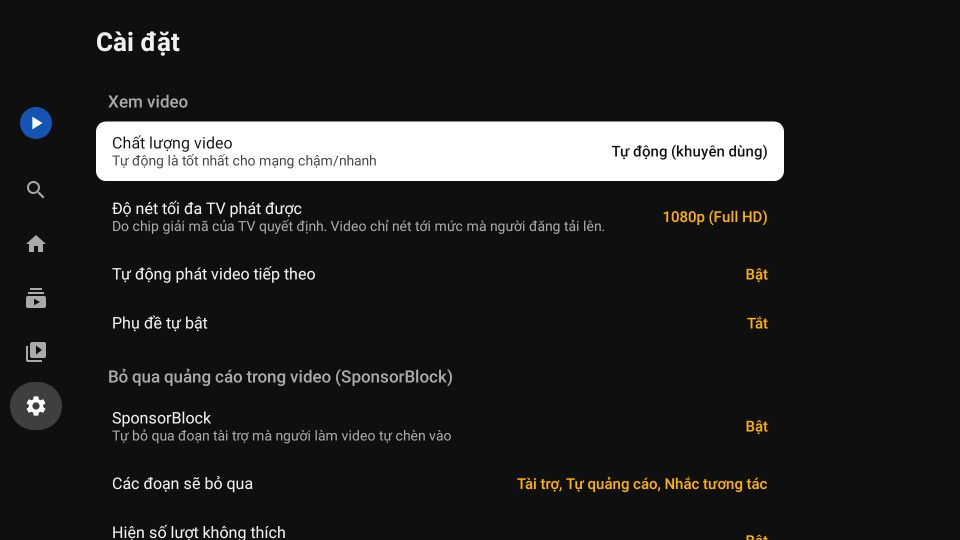
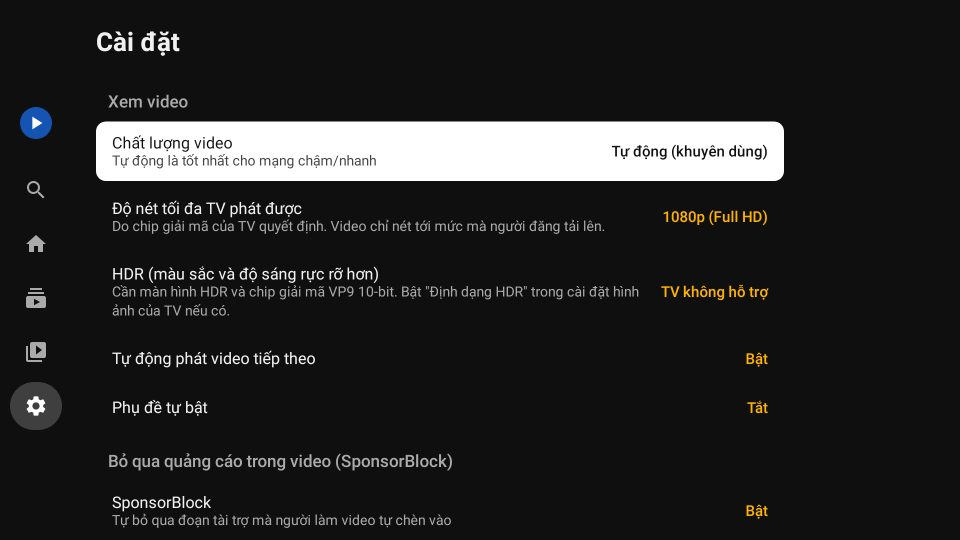
App TV: HDR hoàn tất – test đạt, cập nhật hướng dẫn
Toàn bộ 88 test đạt, gồm test online ExoPlayer đọc luồng VP9.2 HDR10
2160p thật của YouTube.

Claude-Session: https://claude.ai/code/session_01Hny7qgizzj2UgncCQWRFMY

diff --git a/README.md b/README.md
@@ -36,7 +36,7 @@ Bản dành riêng cho **Google TV / Android TV**, ví dụ TV Coocaa 55Y73. Đi
 - **SponsorBlock** (tự bỏ qua đoạn tài trợ, có tô màu trên thanh tua) và **Return YouTube Dislike**: dùng chung phần lõi với bản điện thoại.
 - **Giữ OK** trên một video để mở menu: *Xem sau*, *Đi đến kênh*, *Phát từ đầu*, *Không quan tâm*.
 - Thoát video là ô sáng quay lại đúng video vừa xem. Nút Quay lại hoạt động như YouTube trên TV. Rời app (nút Home) thì video tạm dừng, vị trí xem được lưu lại.
-- **Nét tới 2K / 4K / 8K** (tuỳ video): app kiểm tra chip giải mã của TV rồi phát luồng VP9 của YouTube tới mức cao nhất mà phần cứng làm được. TV không hỗ trợ thì tự dùng H.264 1080p.
+- **Nét tới 2K / 4K / 8K** (tuỳ video): app kiểm tra chip giải mã của TV rồi phát luồng VP9 của YouTube tới mức cao nhất mà phần cứng làm được. TV không hỗ trợ thì tự dùng H.264 1080p. Có **HDR10 / HLG** khi video được quay HDR và cả màn hình lẫn chip giải mã của TV đều hỗ trợ (bật/tắt trong Cài đặt).
 - Nhẹ cho TV yếu (RAM 2 GB): APK khoảng 4 MB, giới hạn bộ nhớ ảnh.
 - Tự tải và cài bản cập nhật ngay trên TV, vì TV thường không có trình duyệt. Tính năng này chỉ chạy khi repo để công khai.
 - Cài song song với app điện thoại được, vì là gói riêng `com.luzart.tubesach.tv`.

diff --git a/docs/HUONG_DAN_CAI_TV.md b/docs/HUONG_DAN_CAI_TV.md
@@ -142,7 +142,16 @@ Xem TV của bạn được tới đâu ở *Cài đặt → Độ nét tối đ
 - **Cao nhất có thể**: luôn phát nét nhất.
 - Hoặc chọn hẳn một mức, ví dụ **2160p (4K)**.
 
-Khi xem, chọn nút **HQ** sẽ thấy dòng "đang phát 2160p (4K)". Video HDR được phát ở chế độ thường (SDR) để màu đúng trên mọi TV.
+Khi xem, chọn nút **HQ** sẽ thấy dòng "đang phát 2160p (4K)". Đang xem video 4K, thanh điều khiển cũng hiện chữ "4K" (thêm "HDR" nếu đang phát HDR) ở dòng thông tin phía trên.
+
+**Có HDR không?**
+Có, với video được quay HDR. App chỉ bật HDR khi cả hai điều kiện đều đúng:
+- màn hình TV hiển thị được HDR10 hoặc HLG;
+- chip giải mã VP9 10‑bit bằng phần cứng.
+
+Thiếu một trong hai thì app tự phát hình thường để màu không bị nhạt hoặc sai.
+
+Xem hoặc bật/tắt ở *Cài đặt → HDR*. Nếu dòng này báo "TV không hỗ trợ", vào cài đặt hình ảnh của TV, bật **Định dạng HDR** (*HDR format*: Tự động / Auto), rồi mở lại app.
 
 **Có cần đăng nhập không? Có đề xuất video không?**
 Không cần đăng nhập. Lần đầu mở app, trang chủ hiện *Thịnh hành tại Việt Nam*. Sau khi xem vài video, YouTube sẽ đề xuất theo những gì bạn đã xem (ẩn danh). Tắt được trong Cài đặt.
